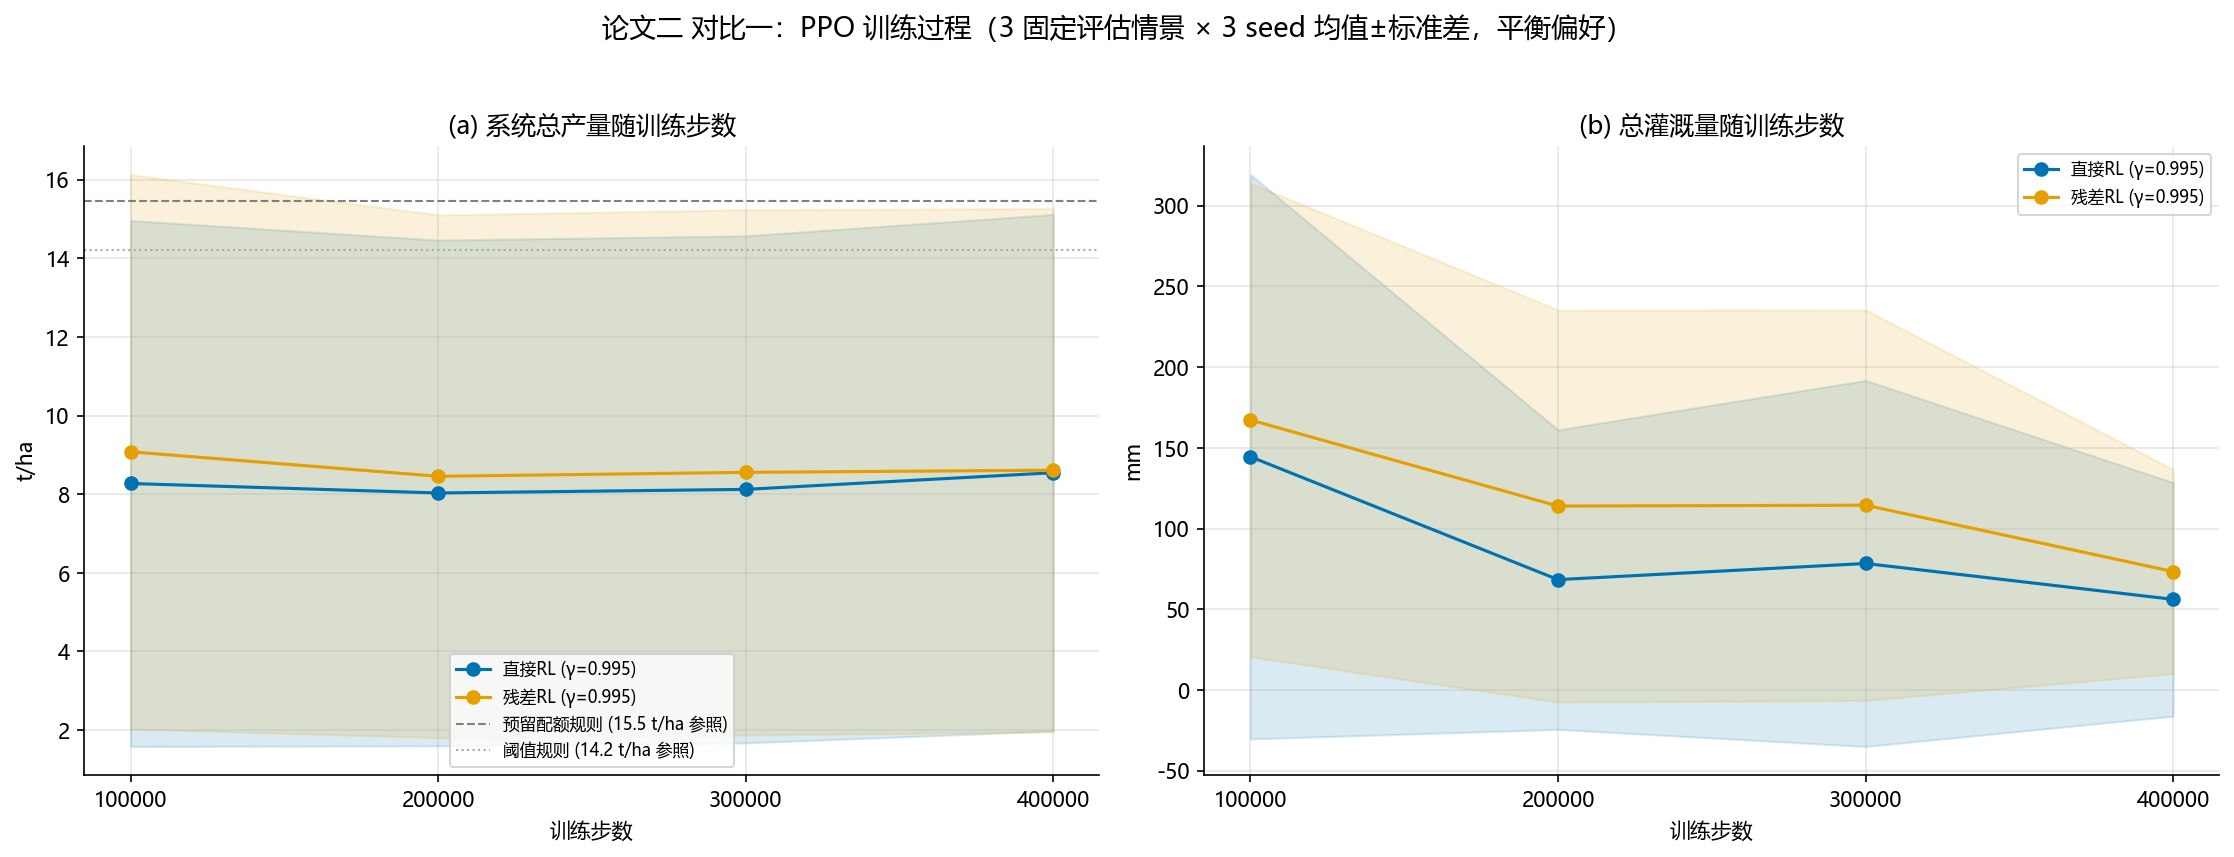
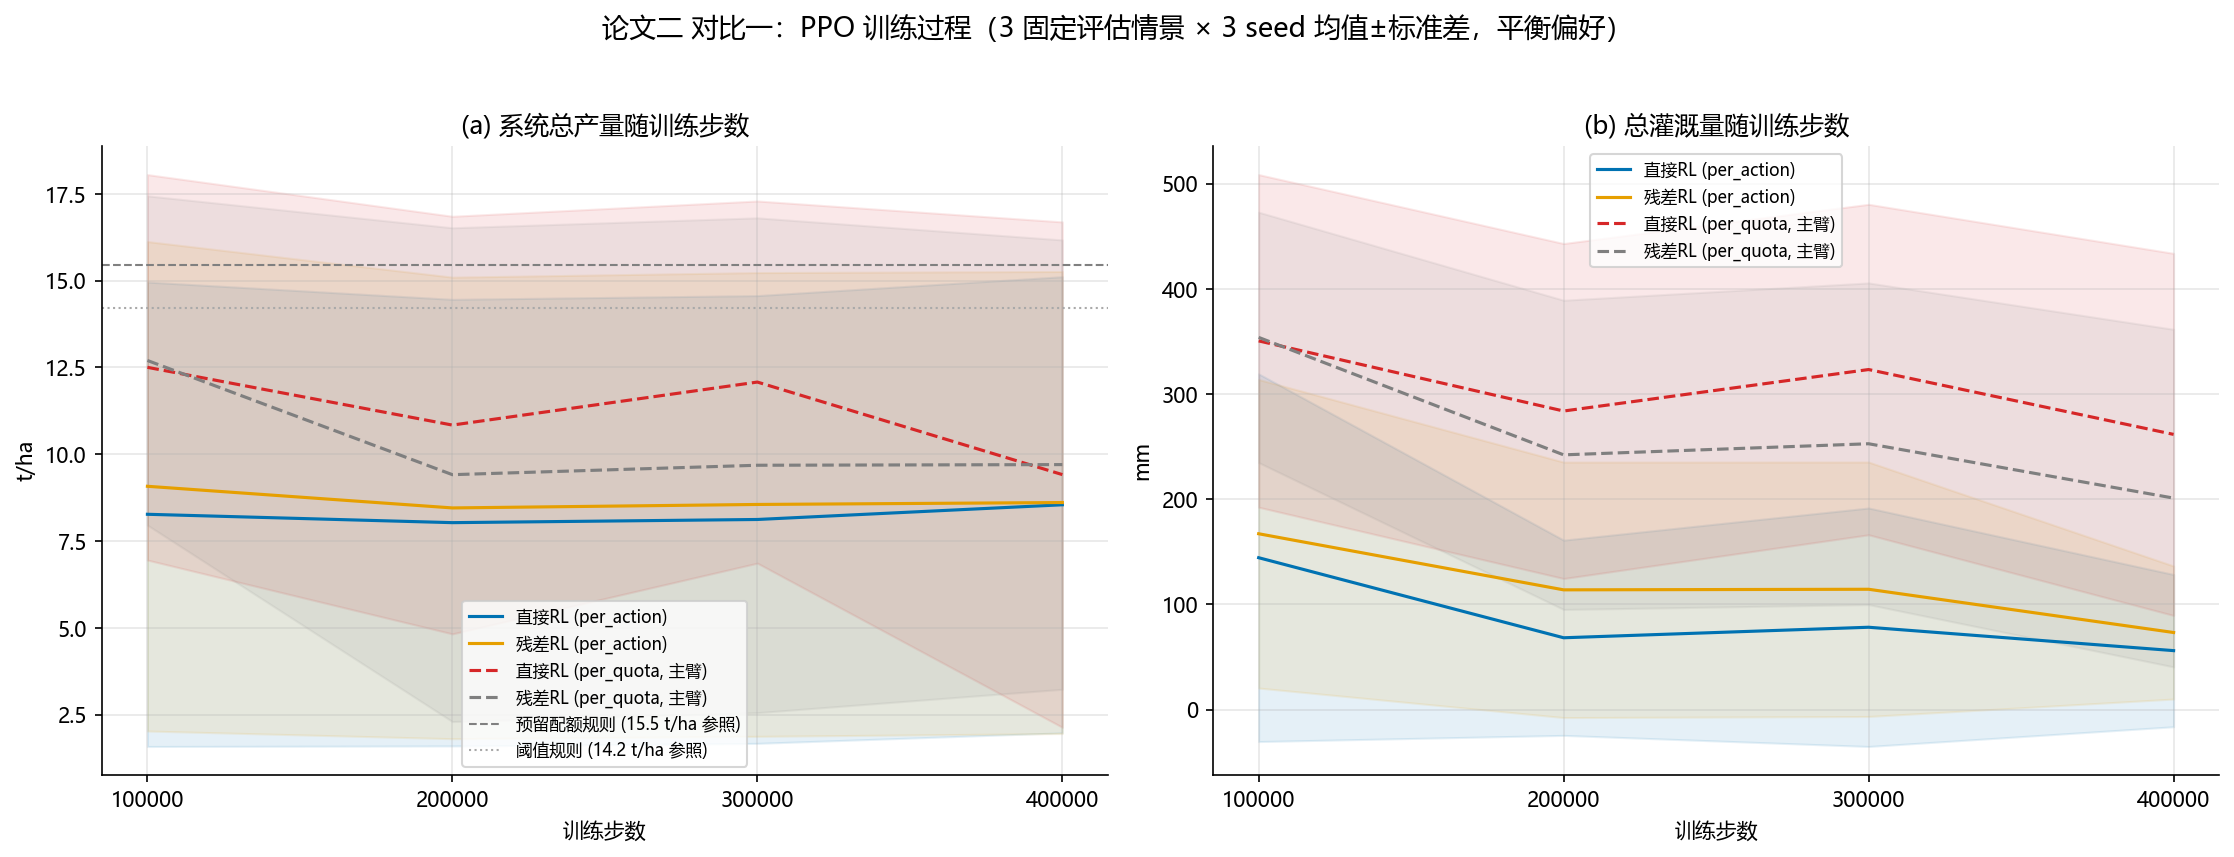
Learning-curve figure: add the per_quota (wq) arm curves vs per_action - shows the rebalanced reward converging to balanced yield/water

diff --git a/src/viz/fig_rotation_training_curves.py b/src/viz/fig_rotation_training_curves.py
@@ -25,12 +25,15 @@ from style import PALETTE, apply_style
 DATA_PATH = Path(__file__).resolve().parents[2] / "data" / "processed" / "ppo_rotation_learning_curve.csv"
 OUT_PATH = Path(__file__).resolve().parents[2] / "figures" / "fig_rl_training_curves_rotation.png"
 
-MODE_LABELS = {"direct": "直接RL (γ=0.995)", "residual": "残差RL (γ=0.995)"}
-MODE_COLOR = {"direct": PALETTE[0], "residual": PALETTE[1]}
+MODE_LABELS = {"direct": "直接RL (per_action)", "residual": "残差RL (per_action)",
+               "direct_wq": "直接RL (per_quota, 主臂)", "residual_wq": "残差RL (per_quota, 主臂)"}
+MODE_COLOR = {"direct": PALETTE[0], "residual": PALETTE[1],
+              "direct_wq": "#d62728", "residual_wq": "#7f7f7f"}
+MODE_STYLE = {"direct": "-", "residual": "-", "direct_wq": "--", "residual_wq": "--"}
 
 
 def base_run(policy: str) -> str:
-    # "ppo_rotation_direct_seed1" -> "ppo_rotation_direct" (keep _gammaN tags)
+    # "ppo_rotation_direct_seed1" -> "ppo_rotation_direct"; keep _wq/_gamma1 tags
     return re.sub(r"_seed\d+$", "", policy)
 
 
@@ -38,7 +41,7 @@ def main():
     apply_style()
     df = pd.read_csv(DATA_PATH)
     df["mode"] = df["policy"].map(base_run)
-    # keep only the gamma=0.995 arm (gamma1 checkpoints are evaluated later)
+    # keep the per_action (primary-for-curve-comparison) + wq arms; drop gamma1
     df = df[~df["mode"].str.contains("_gamma1", na=False)]
 
     fig, axes = plt.subplots(1, 2, figsize=(15, 5.5))
@@ -46,13 +49,15 @@ def main():
 
     for ax, metric, title in zip(axes, ["total_yield_t_ha", "total_irrigation_mm"],
                                  ["(a) 系统总产量随训练步数", "(b) 总灌溉量随训练步数"]):
-        for mode in ["direct", "residual"]:
+        for mode in ["direct", "residual", "direct_wq", "residual_wq"]:
             sub = df[df["mode"] == f"ppo_rotation_{mode}"]
+            if sub.empty:
+                continue
             g = sub.groupby("timesteps")[metric].agg(["mean", "std"])
-            ax.plot(g.index, g["mean"], "o-", color=MODE_COLOR[mode], label=MODE_LABELS[mode])
+            ax.plot(g.index, g["mean"], MODE_STYLE[mode], color=MODE_COLOR[mode], label=MODE_LABELS[mode])
             ax.fill_between(g.index, g["mean"] - g["std"], g["mean"] + g["std"],
-                            color=MODE_COLOR[mode], alpha=0.15)
-        # rule-baseline reference lines for yield (balanced evaluation, mean over sites in the figure)
+                            color=MODE_COLOR[mode], alpha=0.10)
+        # rule-baseline reference lines for yield (balanced evaluation)
         if metric == "total_yield_t_ha":
             ax.axhline(15.45, color="gray", linestyle="--", linewidth=1, label="预留配额规则 (15.5 t/ha 参照)")
             ax.axhline(14.21, color="darkgray", linestyle=":", linewidth=1, label="阈值规则 (14.2 t/ha 参照)")
